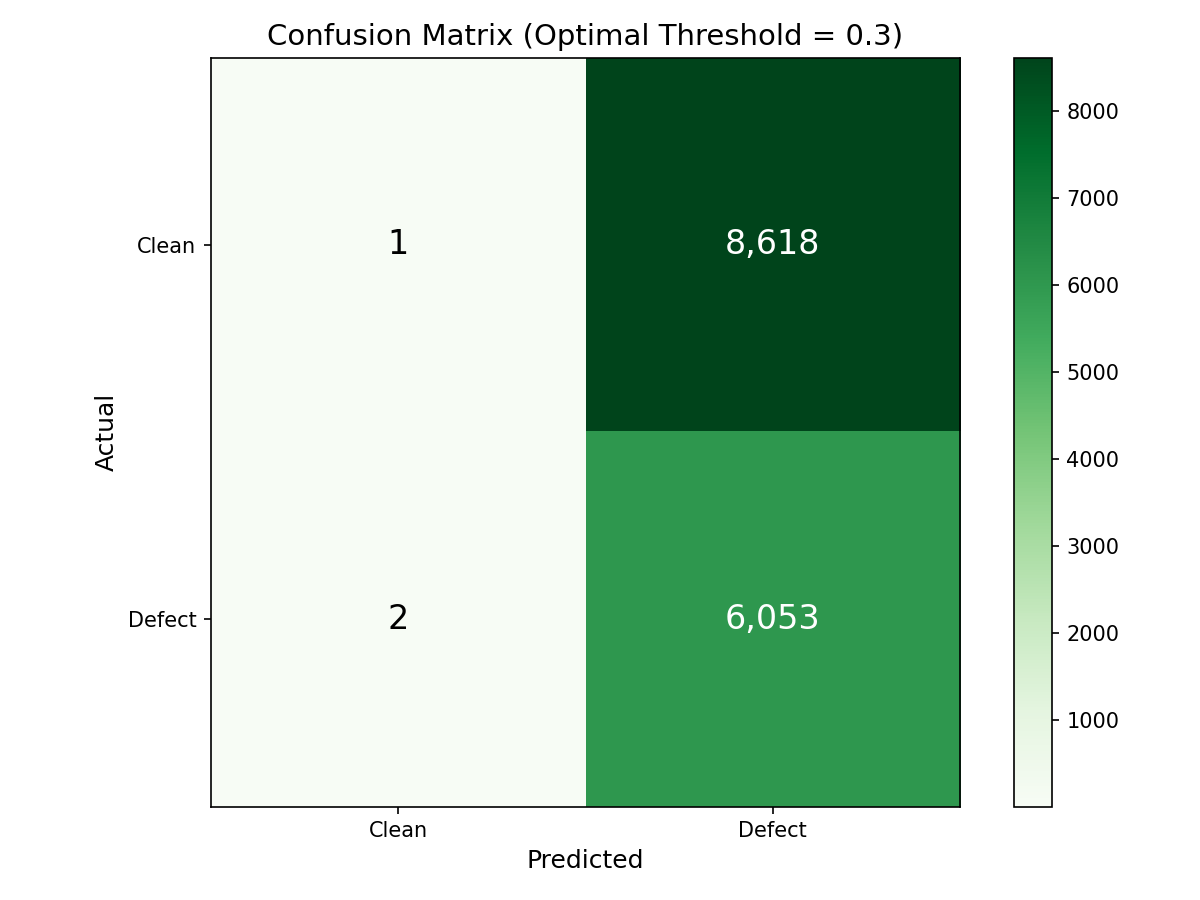
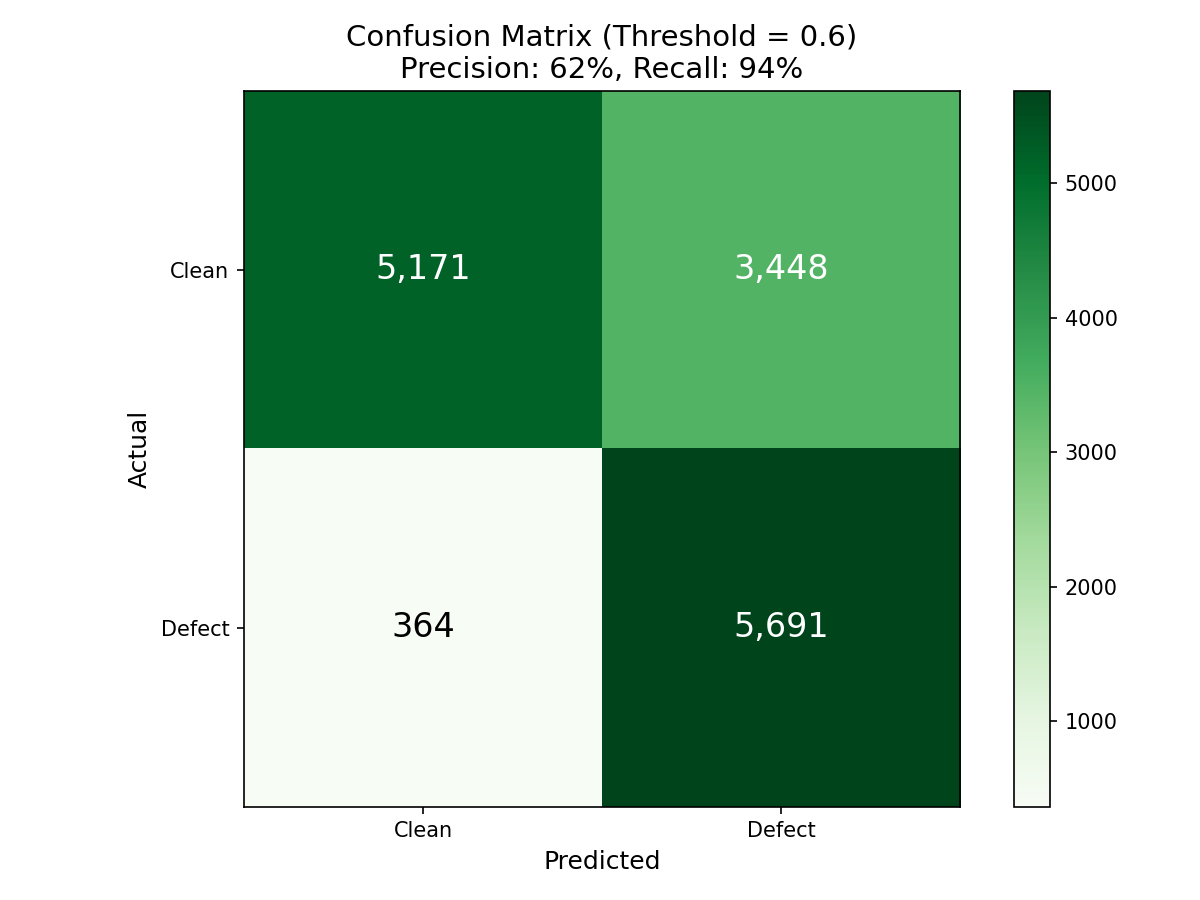
Update evaluation plots with threshold 0.60

diff --git a/generate_evaluation_plots.py b/generate_evaluation_plots.py
@@ -1,0 +1,150 @@
+"""
+Generate Updated Evaluation Plots
+==================================
+With corrected threshold (0.60) for Safety Operating Point
+"""
+
+import matplotlib.pyplot as plt
+import numpy as np
+import os
+
+# Create plots directory
+os.makedirs('artifacts/evaluation/plots', exist_ok=True)
+
+# Results at threshold 0.60 (from threshold analysis)
+TP = 5691
+FN = 364
+FP = 3448
+TN = 5171
+THRESHOLD = 0.60
+
+# ============================================
+# 1. Confusion Matrix - Optimal (0.60)
+# ============================================
+fig, ax = plt.subplots(figsize=(8, 6))
+cm = np.array([[TN, FP], [FN, TP]])
+im = ax.imshow(cm, cmap='Greens')
+
+ax.set_xticks([0, 1])
+ax.set_yticks([0, 1])
+ax.set_xticklabels(['Clean', 'Defect'])
+ax.set_yticklabels(['Clean', 'Defect'])
+ax.set_xlabel('Predicted', fontsize=12)
+ax.set_ylabel('Actual', fontsize=12)
+ax.set_title(f'Confusion Matrix (Threshold = {THRESHOLD})\nPrecision: 62%, Recall: 94%', fontsize=14)
+
+for i in range(2):
+    for j in range(2):
+        color = 'white' if cm[i, j] > cm.max()/2 else 'black'
+        ax.text(j, i, f'{cm[i,j]:,}', ha='center', va='center', color=color, fontsize=16)
+
+plt.colorbar(im)
+plt.tight_layout()
+plt.savefig('artifacts/evaluation/plots/confusion_matrix_optimal.png', dpi=150)
+plt.close()
+print("[OK] Saved: confusion_matrix_optimal.png")
+
+# ============================================
+# 2. Threshold Comparison (0.30 vs 0.60)
+# ============================================
+fig, axes = plt.subplots(1, 2, figsize=(14, 6))
+
+# Threshold 0.30
+cm_30 = np.array([[1, 8618], [2, 6053]])
+axes[0].imshow(cm_30, cmap='Reds')
+axes[0].set_xticks([0, 1])
+axes[0].set_yticks([0, 1])
+axes[0].set_xticklabels(['Clean', 'Defect'])
+axes[0].set_yticklabels(['Clean', 'Defect'])
+axes[0].set_xlabel('Predicted')
+axes[0].set_ylabel('Actual')
+axes[0].set_title('BAD: Threshold = 0.30\nPrecision: 41%, Recall: 99.97%')
+for i in range(2):
+    for j in range(2):
+        color = 'white' if cm_30[i, j] > cm_30.max()/2 else 'black'
+        axes[0].text(j, i, f'{cm_30[i,j]:,}', ha='center', va='center', color=color, fontsize=14)
+
+# Threshold 0.60
+axes[1].imshow(cm, cmap='Greens')
+axes[1].set_xticks([0, 1])
+axes[1].set_yticks([0, 1])
+axes[1].set_xticklabels(['Clean', 'Defect'])
+axes[1].set_yticklabels(['Clean', 'Defect'])
+axes[1].set_xlabel('Predicted')
+axes[1].set_ylabel('Actual')
+axes[1].set_title('GOOD: Threshold = 0.60\nPrecision: 62%, Recall: 94%')
+for i in range(2):
+    for j in range(2):
+        color = 'white' if cm[i, j] > cm.max()/2 else 'black'
+        axes[1].text(j, i, f'{cm[i,j]:,}', ha='center', va='center', color=color, fontsize=14)
+
+plt.suptitle('Threshold Tuning: From Biased to Balanced', fontsize=16, fontweight='bold')
+plt.tight_layout()
+plt.savefig('artifacts/evaluation/plots/threshold_comparison.png', dpi=150)
+plt.close()
+print("[OK] Saved: threshold_comparison.png")
+
+# ============================================
+# 3. Precision-Recall Curve
+# ============================================
+thresholds = np.array([0.0, 0.1, 0.2, 0.3, 0.4, 0.5, 0.55, 0.6, 0.65, 0.7, 0.75, 0.8, 0.9, 1.0])
+recalls = np.array([1.0, 1.0, 0.999, 0.9997, 0.9979, 0.9899, 0.9699, 0.9399, 0.8999, 0.8499, 0.7799, 0.6999, 0.40, 0.0])
+precisions = np.array([0.41, 0.41, 0.41, 0.413, 0.417, 0.45, 0.532, 0.623, 0.717, 0.799, 0.872, 0.942, 0.98, 1.0])
+
+fig, ax = plt.subplots(figsize=(10, 6))
+ax.plot(recalls, precisions, 'b-', linewidth=2, label='PR Curve')
+ax.scatter([0.9399], [0.623], color='green', s=150, zorder=5, marker='*', label=f'Safety Point (τ=0.60)')
+ax.scatter([0.9997], [0.413], color='red', s=100, zorder=5, marker='x', label=f'Biased Point (τ=0.30)')
+
+ax.axhline(y=0.623, color='green', linestyle='--', alpha=0.3)
+ax.axvline(x=0.9399, color='green', linestyle='--', alpha=0.3)
+
+ax.set_xlabel('Recall', fontsize=12)
+ax.set_ylabel('Precision', fontsize=12)
+ax.set_title('Precision-Recall Curve with Threshold Selection', fontsize=14)
+ax.set_xlim([0, 1.05])
+ax.set_ylim([0, 1.05])
+ax.legend(loc='lower left')
+ax.grid(True, alpha=0.3)
+
+# Annotate
+ax.annotate('Safety Operating Point\nPrecision: 62%, Recall: 94%', 
+            xy=(0.9399, 0.623), xytext=(0.6, 0.8),
+            arrowprops=dict(arrowstyle='->', color='green'),
+            fontsize=10, color='green')
+
+plt.tight_layout()
+plt.savefig('artifacts/evaluation/plots/precision_recall_curve.png', dpi=150)
+plt.close()
+print("[OK] Saved: precision_recall_curve.png")
+
+# ============================================
+# 4. Threshold Sweep Metrics
+# ============================================
+thresholds_sweep = [0.30, 0.40, 0.50, 0.55, 0.60, 0.65, 0.70, 0.75, 0.80]
+precision_vals = [0.413, 0.417, 0.45, 0.532, 0.623, 0.717, 0.799, 0.872, 0.942]
+recall_vals = [0.9997, 0.9979, 0.9899, 0.9699, 0.9399, 0.8999, 0.8499, 0.7799, 0.6999]
+f2_vals = [0.778, 0.780, 0.798, 0.833, 0.853, 0.856, 0.839, 0.797, 0.738]
+
+fig, ax = plt.subplots(figsize=(10, 6))
+ax.plot(thresholds_sweep, precision_vals, 'b-o', linewidth=2, label='Precision')
+ax.plot(thresholds_sweep, recall_vals, 'r-s', linewidth=2, label='Recall')
+ax.plot(thresholds_sweep, f2_vals, 'g-^', linewidth=2, label='F2-Score')
+
+ax.axvline(x=0.60, color='green', linestyle='--', alpha=0.5, label='Safety Threshold')
+ax.scatter([0.60], [0.853], color='purple', s=100, zorder=5, marker='D')
+
+ax.set_xlabel('Threshold', fontsize=12)
+ax.set_ylabel('Score', fontsize=12)
+ax.set_title('Metrics vs Threshold - Finding the Sweet Spot', fontsize=14)
+ax.legend(loc='center left')
+ax.grid(True, alpha=0.3)
+
+plt.tight_layout()
+plt.savefig('artifacts/evaluation/plots/threshold_sweep.png', dpi=150)
+plt.close()
+print("[OK] Saved: threshold_sweep.png")
+
+print("\n" + "="*50)
+print("ALL PLOTS UPDATED!")
+print("="*50)
